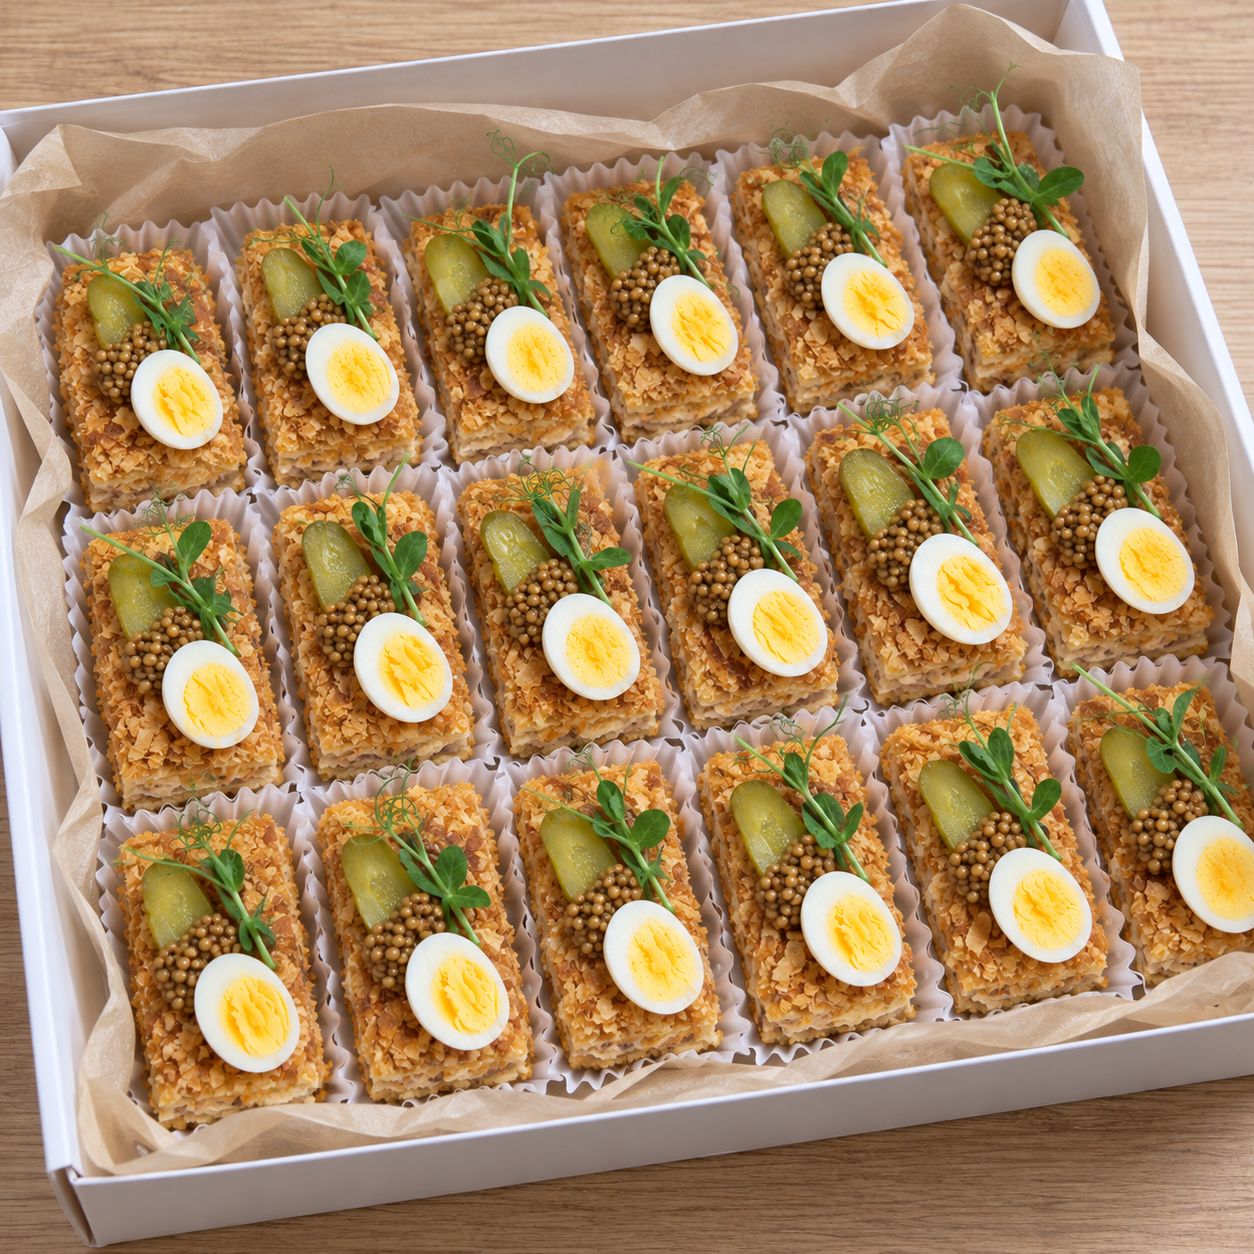
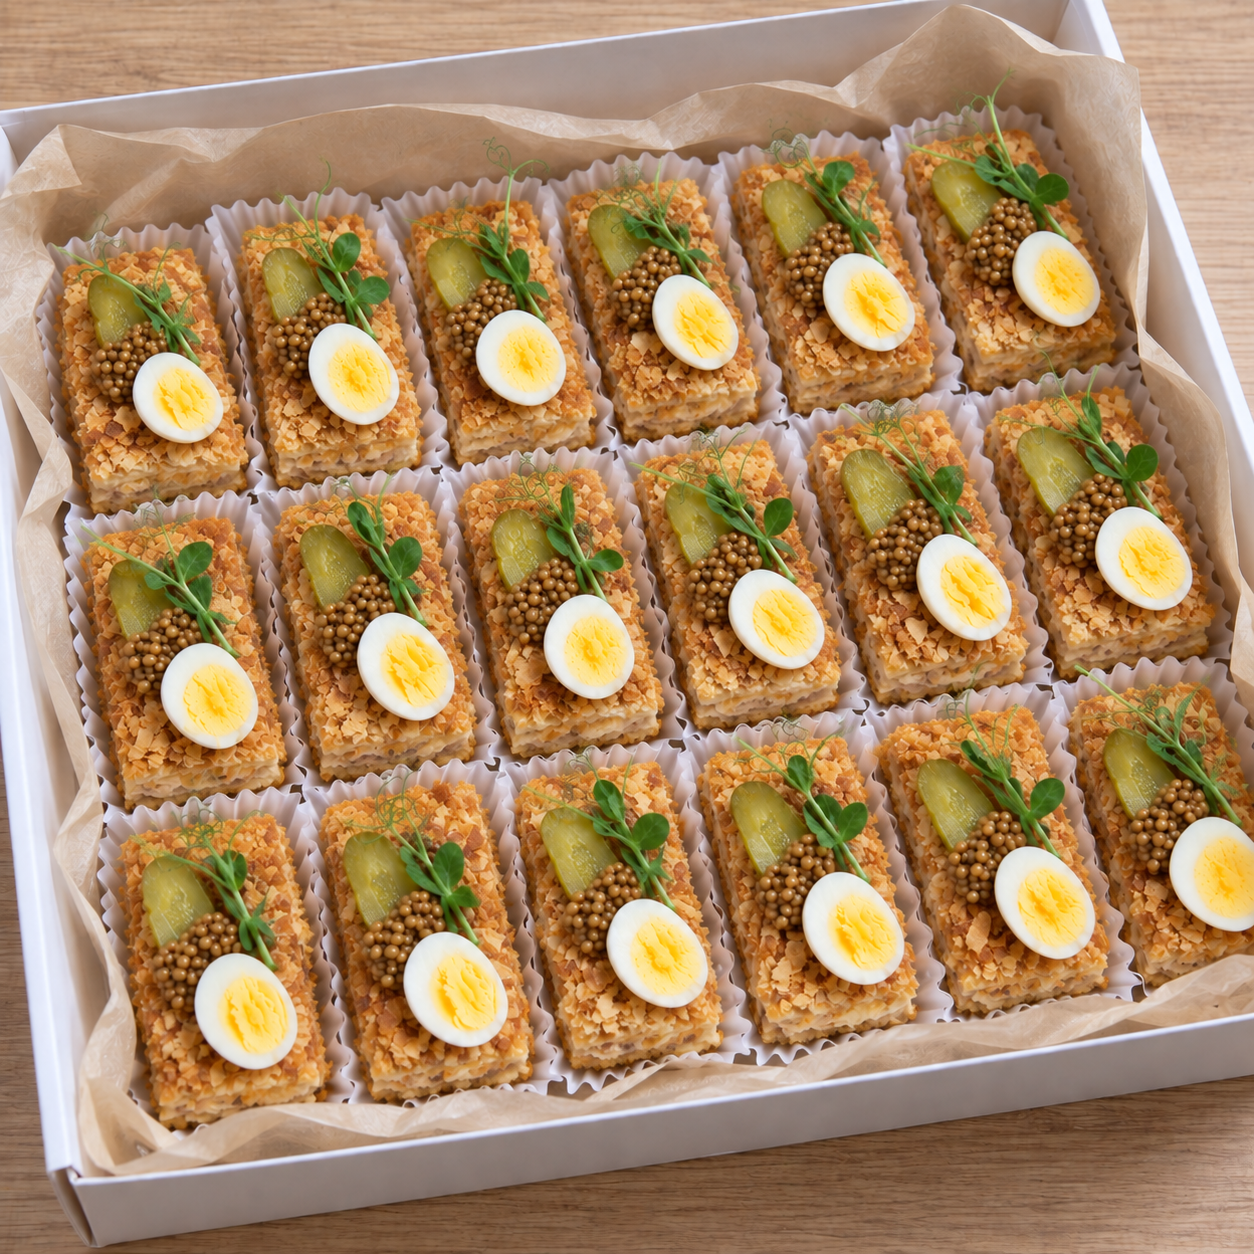
Hide bruschetta assortment boxes, renumber boxes, update napoleon and bruschetta photos
Guard control() against items missing from the catalog so hidden
cards don't break rendering of the remaining box buttons.

Changed region(s): [[0.0311, 0.0622, 1.0, 0.9019], [0.8708, 0.8086, 0.9019, 0.8397]]

diff --git a/site/index.html b/site/index.html
@@ -623,7 +623,7 @@
           </div>
         </article>
         <article class="ready-box">
-          <img class="ready-box-cover-image" src="assets/boxes/bruschetta-box-salmon-shrimp-natural.png" alt="Бокс из двадцати брускетт с лососем и креветкой" loading="lazy">
+          <img class="ready-box-cover-image" src="assets/boxes/bruschetta-box-salmon-shrimp-natural.png?v=20260926d" alt="Бокс из двадцати брускетт с лососем и креветкой" loading="lazy">
           <div class="ready-box-content">
             <span class="ready-box-kicker">Бокс №17 · 20 шт. · <span class="ready-box-weight">1 200 г</span></span>
             <h3><span>Брускетты с лососем и креветкой</span></h3>
@@ -635,7 +635,7 @@
             <div class="ready-box-order"><div class="ready-box-price"><strong>90 BYN</strong><span>Цена за бокс</span></div><div class="ready-box-action" data-control="box-bruschetta-salmon-shrimp"></div></div>
           </div>
         </article>
-        <article class="ready-box">
+        <article class="ready-box" hidden>
           <img class="ready-box-cover-image" src="assets/boxes/bruschetta-box-four-flavors.png" alt="Бокс из двадцати брускетт с лососем, креветкой, ростбифом и тартаром из говядины" loading="lazy">
           <div class="ready-box-content">
             <span class="ready-box-kicker">Бокс №18 · 20 шт. · <span class="ready-box-weight">1 200 г</span></span>
@@ -650,7 +650,7 @@
             <div class="ready-box-order"><div class="ready-box-price"><strong>80 BYN</strong><span>Цена за бокс</span></div><div class="ready-box-action" data-control="box-bruschetta-fish-meat"></div></div>
           </div>
         </article>
-        <article class="ready-box">
+        <article class="ready-box" hidden>
           <img class="ready-box-cover-image" src="assets/boxes/bruschetta-box-meat-flavors.png" alt="Бокс из двадцати мясных брускетт четырёх вкусов" loading="lazy">
           <div class="ready-box-content">
             <span class="ready-box-kicker">Бокс №19 · 20 шт. · <span class="ready-box-weight">1 200 г</span></span>
@@ -676,7 +676,7 @@
             <div class="gallery-dots" aria-hidden="true"><span class="active"></span><span></span></div>
           </div>
           <div class="ready-box-content">
-            <span class="ready-box-kicker">Бокс №20 · 1 пирог · <span class="ready-box-weight">1 кг</span></span>
+            <span class="ready-box-kicker">Бокс №18 · 1 пирог · <span class="ready-box-weight">1 кг</span></span>
             <h3><span>Пирог с курицей, сыром фета и томатами черри</span></h3>
             <p class="ready-box-note">Вес одного пирога — 1 кг.</p>
             <div class="ready-box-order"><div class="ready-box-price"><strong>45 BYN</strong><span>Цена за пирог</span></div><div class="ready-box-action" data-control="box-chicken-pie"></div></div>
@@ -693,7 +693,7 @@
             <div class="gallery-dots" aria-hidden="true"><span class="active"></span><span></span></div>
           </div>
           <div class="ready-box-content">
-            <span class="ready-box-kicker">Бокс №21 · 1 пирог · <span class="ready-box-weight">1 кг</span></span>
+            <span class="ready-box-kicker">Бокс №19 · 1 пирог · <span class="ready-box-weight">1 кг</span></span>
             <h3><span>Пирог с капустой и грибами</span></h3>
             <p class="ready-box-note">Вес одного пирога — 1 кг.</p>
             <div class="ready-box-order"><div class="ready-box-price"><strong>40 BYN</strong><span>Цена за пирог</span></div><div class="ready-box-action" data-control="box-cabbage-pie"></div></div>
@@ -710,7 +710,7 @@
             <div class="gallery-dots" aria-hidden="true"><span class="active"></span><span></span></div>
           </div>
           <div class="ready-box-content">
-            <span class="ready-box-kicker">Бокс №22 · 18 шт. · <span class="ready-box-weight">2 160 г</span></span>
+            <span class="ready-box-kicker">Бокс №20 · 18 шт. · <span class="ready-box-weight">2 160 г</span></span>
             <h3><span>Шоколадные пирожные</span></h3>
             <p>Шоколадное пирожное с заварным кремом, солёной карамелью, шоколадной глазурью и фундуком.</p>
             <p class="ready-box-note">В боксе 18 штук по 120 г.</p>
@@ -720,7 +720,7 @@
         <article class="ready-box">
           <img class="ready-box-cover-image" src="assets/desserts/basque-cheesecake.jpg" alt="Цельный басский чизкейк без украшений на деревянном столе" loading="lazy">
           <div class="ready-box-content">
-            <span class="ready-box-kicker">Бокс №23 · 1 чизкейк · <span class="ready-box-weight">900 г</span></span>
+            <span class="ready-box-kicker">Бокс №21 · 1 чизкейк · <span class="ready-box-weight">900 г</span></span>
             <h3><span>Басский чизкейк</span></h3>
             <p class="ready-box-note">Вес одного чизкейка — 900 г.</p>
             <div class="ready-box-order"><div class="ready-box-price"><strong>70 BYN</strong><span>Цена за чизкейк</span></div><div class="ready-box-action" data-control="box-basque-cheesecake"></div></div>
@@ -846,7 +846,7 @@
     </div>
   </div>
 
-  <script src="js/data.js?v=20260924-napoleon-boxes"></script>
-  <script src="js/app.js?v=20260926-search-esc"></script>
+  <script src="js/data.js?v=20260926-natural-napoleons"></script>
+  <script src="js/app.js?v=20260926-hidden-boxes"></script>
 </body>
 </html>

diff --git a/site/js/data.js b/site/js/data.js
@@ -66,9 +66,9 @@ const ITEMS = [
   { id: "t4", category: "tartlets", name: "Запечённая тарталетка со снежным крабом и соусом терияки", weight: "60 г", price: 4.00, img: "assets/tartlets/tartlet-snow-crab-teriyaki.jpg" },
 
   // Солёные наполеоны
-  { id: "napoleon-duck", category: "napoleons", name: "Наполеон с утиным паштетом и клюквенным конфитюром", weight: "1 шт. ≈ 40 г", price: 55 / 18, img: "assets/napoleons/duck-cranberry-box.png" },
-  { id: "napoleon-chicken", category: "napoleons", name: "Наполеон с курицей и грибами", weight: "1 шт. ≈ 40 г", price: 55 / 18, img: "assets/napoleons/chicken-mushroom-box.png" },
-  { id: "napoleon-tuna", category: "napoleons", name: "Наполеон с тунцом и сыром", weight: "1 шт. ≈ 40 г", price: 55 / 18, img: "assets/napoleons/tuna-cheese-box.png" },
+  { id: "napoleon-duck", category: "napoleons", name: "Наполеон с утиным паштетом и клюквенным конфитюром", weight: "1 шт. ≈ 40 г", price: 55 / 18, img: "assets/napoleons/duck-cranberry-box.png?v=20260926-natural" },
+  { id: "napoleon-chicken", category: "napoleons", name: "Наполеон с курицей и грибами", weight: "1 шт. ≈ 40 г", price: 55 / 18, img: "assets/napoleons/chicken-mushroom-box.png?v=20260926-natural" },
+  { id: "napoleon-tuna", category: "napoleons", name: "Наполеон с тунцом и сыром", weight: "1 шт. ≈ 40 г", price: 55 / 18, img: "assets/napoleons/tuna-cheese-box.png?v=20260926-natural" },
 
   // Мини сэндвичи
   { id: "s1", category: "sandwiches", name: "Мини сэндвич с ростбифом", weight: "45 г", price: 3.80, composition: "Хлеб, ростбиф, руккола, соус", description: "Сытный и аккуратный мини-формат.", img: placeholderImg("🥩", "#E3F2FD") },
@@ -147,13 +147,11 @@ ITEMS.push(
   { id: "box-profiteroles", type: "ready-box", name: "Большой бокс профитролей", weight: "Бокс №14 · 25 шт. · 750 г", price: 70, img: "assets/boxes/profiteroles-overview.jpg", minQty: 1, qtyStep: 1 },
   { id: "box-mini-tartlets", type: "ready-box", name: "Мини-тарталетки", weight: "Бокс №15 · 64 шт. · 1 280 г", price: 130, img: "assets/boxes/mini-tartlets-box.jpg?v=3", minQty: 1, qtyStep: 1 },
   { id: "box-canapes", type: "ready-box", name: "Канапе", weight: "Бокс №16 · 21 шт. · 630 г", price: 65, img: "assets/boxes/canapes-overview.jpg", minQty: 1, qtyStep: 1 },
-  { id: "box-bruschetta-salmon-shrimp", type: "ready-box", name: "Брускетты с лососем и креветкой", weight: "Бокс №17 · 20 шт. · 1 200 г", price: 90, img: "assets/boxes/bruschetta-box-salmon-shrimp-natural.png", minQty: 1, qtyStep: 1 },
-  { id: "box-bruschetta-fish-meat", type: "ready-box", name: "Ассорти брускетт с рыбой и мясом", weight: "Бокс №18 · 20 шт. · 1 200 г", price: 80, img: "assets/boxes/bruschetta-box-four-flavors.png", minQty: 1, qtyStep: 1 },
-  { id: "box-bruschetta-meat", type: "ready-box", name: "Ассорти мясных брускетт", weight: "Бокс №19 · 20 шт. · 1 200 г", price: 75, img: "assets/boxes/bruschetta-box-meat-flavors.png", minQty: 1, qtyStep: 1 },
-  { id: "box-chicken-pie", type: "ready-box", name: "Пирог с курицей, сыром фета и томатами черри", weight: "Бокс №20 · 1 пирог · 1 кг", price: 45, img: "assets/boxes/chicken-feta-cherry-pie-whole.jpg", minQty: 1, qtyStep: 1 },
-  { id: "box-cabbage-pie", type: "ready-box", name: "Пирог с капустой и грибами", weight: "Бокс №21 · 1 пирог · 1 кг", price: 40, img: "assets/boxes/cabbage-mushroom-pie-whole.jpg", minQty: 1, qtyStep: 1 },
-  { id: "box-chocolate-cakes", type: "ready-box", name: "Шоколадные пирожные", weight: "Бокс №22 · 18 шт. · 2 160 г", price: 108, img: "assets/boxes/chocolate-cakes-overview.jpg?v=3", minQty: 1, qtyStep: 1 },
-  { id: "box-basque-cheesecake", type: "ready-box", name: "Басский чизкейк", weight: "Бокс №23 · 1 чизкейк · 900 г", price: 70, img: "assets/desserts/basque-cheesecake.jpg", minQty: 1, qtyStep: 1 }
+  { id: "box-bruschetta-salmon-shrimp", type: "ready-box", name: "Брускетты с лососем и креветкой", weight: "Бокс №17 · 20 шт. · 1 200 г", price: 90, img: "assets/boxes/bruschetta-box-salmon-shrimp-natural.png?v=20260926d", minQty: 1, qtyStep: 1 },
+  { id: "box-chicken-pie", type: "ready-box", name: "Пирог с курицей, сыром фета и томатами черри", weight: "Бокс №18 · 1 пирог · 1 кг", price: 45, img: "assets/boxes/chicken-feta-cherry-pie-whole.jpg", minQty: 1, qtyStep: 1 },
+  { id: "box-cabbage-pie", type: "ready-box", name: "Пирог с капустой и грибами", weight: "Бокс №19 · 1 пирог · 1 кг", price: 40, img: "assets/boxes/cabbage-mushroom-pie-whole.jpg", minQty: 1, qtyStep: 1 },
+  { id: "box-chocolate-cakes", type: "ready-box", name: "Шоколадные пирожные", weight: "Бокс №20 · 18 шт. · 2 160 г", price: 108, img: "assets/boxes/chocolate-cakes-overview.jpg?v=3", minQty: 1, qtyStep: 1 },
+  { id: "box-basque-cheesecake", type: "ready-box", name: "Басский чизкейк", weight: "Бокс №21 · 1 чизкейк · 900 г", price: 70, img: "assets/desserts/basque-cheesecake.jpg", minQty: 1, qtyStep: 1 }
 );
 
 ITEMS.forEach(function (item) {

diff --git a/site/js/app.js b/site/js/app.js
@@ -63,6 +63,7 @@
   }
   function control(id) {
     var item = byId[id], qty = cart[id] || 0;
+    if (!item) return '';
     if (item.available === false) return '<button class="add-btn" type="button" disabled>Цена уточняется</button>';
     if (!qty) return '<button class="add-btn" data-action="plus" data-id="' + id + '">Добавить</button>';
     return '<div class="qty-stepper"><button data-action="minus" data-id="' + id + '" aria-label="Уменьшить">−</button><span>' + qty + '</span><button data-action="plus" data-id="' + id + '" aria-label="Увеличить">+</button></div>';
